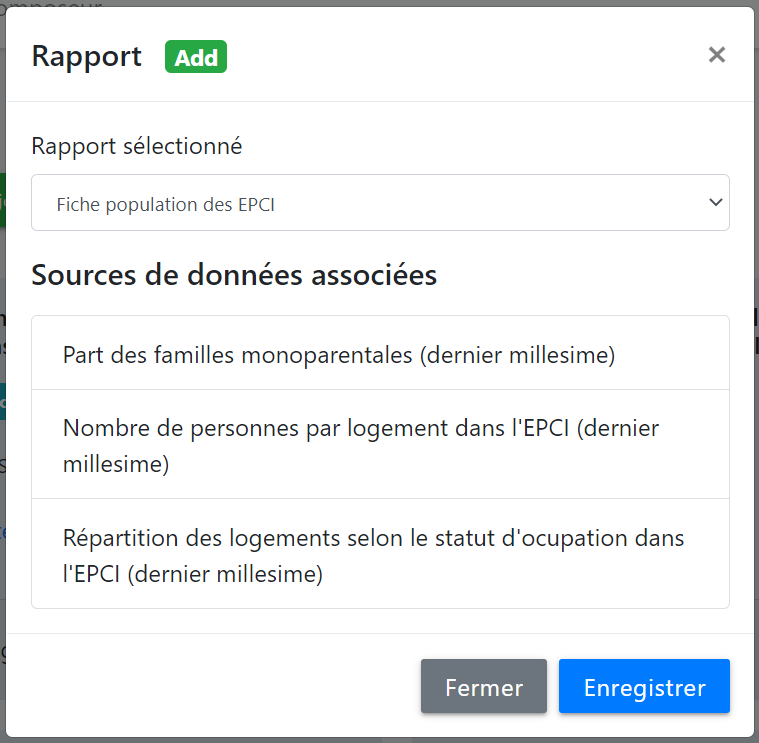
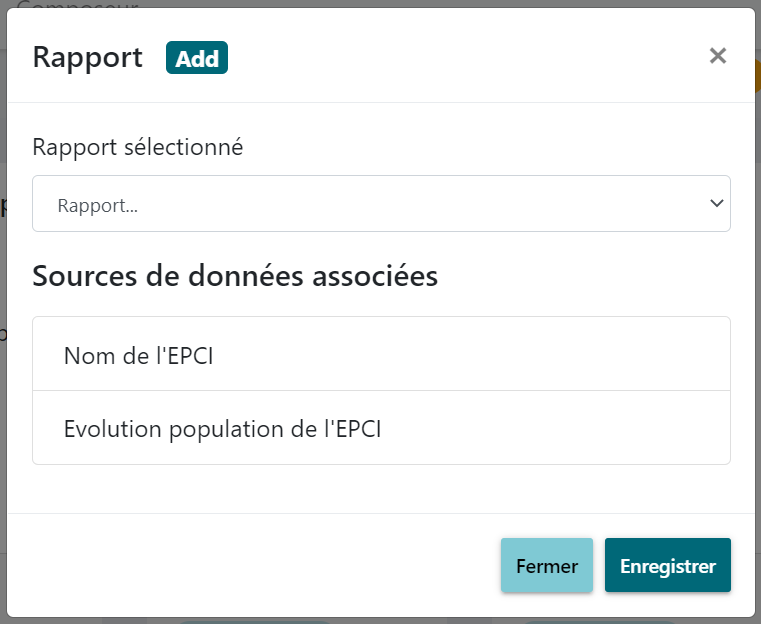
MAJ docs et images docs

diff --git a/docs/ADMIN.md b/docs/ADMIN.md
@@ -4,16 +4,16 @@
 
 L'interface admin se décompose en 3 pages:
 
-* Le catalogue 
+* Les données
 * Les rapports
 * Le composeur
 
 
-## Catalogue
+## Données
 
 ![Catalogue](img/catalogue.png "Catalogue")
 
-Le catalogue affiche chaque jeux de donnée qui se trouve dans la table dataviz de la base de données.
+La page données affiche chaque jeux de donnée qui se trouve dans la table dataviz de la base de données.
 
 Ici vous pouvez sélectionner les jeux de données à utiliser dans un rapport.
 
@@ -21,33 +21,38 @@ Ici vous pouvez sélectionner les jeux de données à utiliser dans un rapport.
 
 A partir de cette séléction il a possible de créer un nouveau rapport ou d'ajouter ces données à un rapport existant.
 
-![Creation rapport](img/ajouter_rapport.png =100x "Création d'un rapport")
+![CreationRapport](img/creation_rapport.png "Création d'un rapport")
 
 ou
 
-![Ajouter à un rapport](img/creation_rapport.png =1"Ajouter à un rapport")
+![AjouterARapport](img/ajouter_rapport.png "Ajouter à un rapport")
 
-Comme autre fonctionnalité ici vous pouvez chercher un jeux de données ou de réintisaliser la séléction.
+Comme autre fonctionnalité ici vous pouvez chercher un jeux de données avec un filtre et avec le filtre avancé il est possible de filtre les dataviz selon leur référentiel.
+
+![FiltrerDataviz](img/filtre_avance_dataviz.png "Filtre avancé des dataviz")
+
+Vous pouvez aussi rinitaliser la séléction et trier par ordre alphabétique les dataviz.
 
 
 ## Rapports
 
 ![Rapports](img/rapport.png "Rapports")
 
-Sur la page rapport nous pouvons voir les rapports qui se trouvent dans la table report de la base de données. 
+Sur la page rapports nous pouvons voir les rapports qui se trouvent dans la table report de la base de données. 
 
 Pour un rapport c'est possible de modifier les jeux de données qui le composent
 
 ![Sourcer apport](img/sourcer_rapport.png "Sourcer les données")
 
-A ce même endroit il y a les options de supprimer, afficher ou composer le rapport ainsi que le copier.
+A ce même endroit il y a les options de supprimer un par un les rapports ou par lot, afficher ou composer le rapport ainsi que le copier/dupliquer.
 
+Comme pour la page données vous pouvez trier les rapports par leur titre ou encore filtrer les rapports avec une recherche
 
 ## Composeur
 
 ![Composeur](img/composeur.png "Composeur")
 
-Dans le composeur il y a deux blocs, les options à gauche et la structuration du rapport sur le reste de la page. 
+Dans le composeur il y a trois blocs, les options en dessous le menu, les blocs structrants et données à gauche et la structuration du rapport sur le reste de la page. 
 
 En ce qui concernce les options il faut dans un premier temps choisir quel rapport utiliser:
 
@@ -56,6 +61,8 @@ En ce qui concernce les options il faut dans un premier temps choisir quel rappo
 Ensuite choisir un modèle de mise en page.
 
 ![Modèle du rapport](img/modele_rapport.png "Séléction d'un modeèle de mise en page")
+
+Dans une version future il sera possible de choisir quel version du rapport utilsier, et donc re basculer sur un rapport antérieur si besoin. ca ser un système de versionnement.
 
 Avec un glisser déposer des élements à gauche, il faut ajouter les blocs qui vont structurer le rapport dans la section princpale.
 

diff --git a/docs/DATA.md b/docs/DATA.md
@@ -4,15 +4,19 @@
 ## 1 - La base de données
 
 
-La base de données de l'application est constituée de 5 tables.
+La base de données de l'application est constituée de 7 tables.
 
 * Les 2 tables **dataviz** et **rawdata** contiennent les données qui servant à réaliser les dataviz utilisé dans la génération de reports.
-* La table **dataid** liste tous les identités disponibles (Communes, EPCI, gares, ...).
+* La table **dataid** liste tous les identités des réferentiels disponibles (Communes, EPCI, gares, ...).
 * Les tables **report** et **report_composition** sont des tables de configuration propres à l'application (Qui sont respectivement les noms des rapports et la source des données).
+* La table **level_type** liste tous les enitités des réferentiels (Communes, EPCI, gares, ...).
+* La table **report_definition** sera utiliser pour la fonctionnalité de versionnement des rapports. Pour l'instant elle n'est pas utilisé.
 
 Ci-dessous le MCD de la base de donnée. Les relations '1,1' de rawdata avec dataviz et dataid montre que rawdata a besoin d'utiliser les données des deux autres tables. Il y a un ordre d'alimentation des tables à respecter selon les cardinalités.
 
 L'association '0,n' entre dataviz et report fait la table d'association report_composition. Cela permet de lier un report et un dataviz.
+
+Entre level_type, dataviz et dataid il y a une contrainte de simultaneité. Un élement level_type qui existe dans dataviz va forcement exister dans dataid et inversement.
 
 ![MCD](img/mcd.png "MCD")
 
